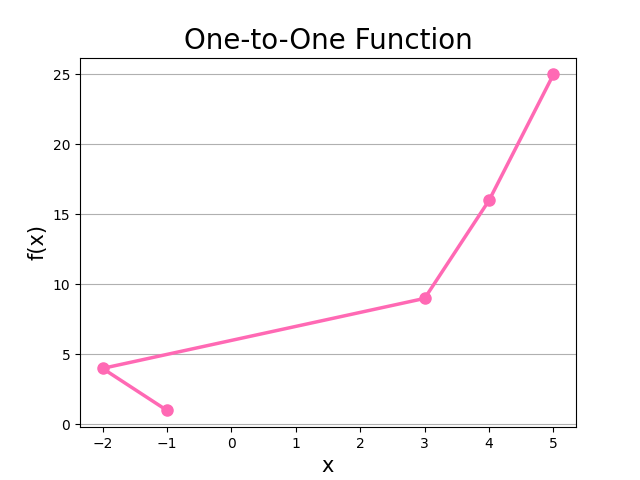
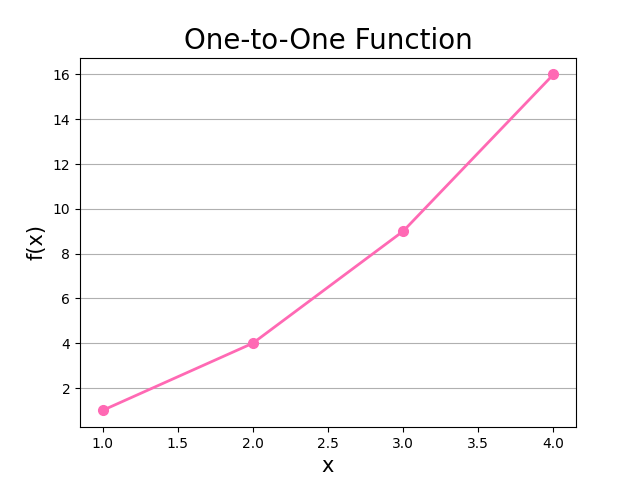
InjectivePlot function and update domain values

diff --git a/Functions Code/Injective.py b/Functions Code/Injective.py
@@ -14,7 +14,7 @@ def is_one_to_one(func, dom):
 def InjectivePlot(func, dom):
     x = np.array(dom)
     y = np.array([func(val) for val in dom])
-    plt.plot(x, y, marker = 'o', color = 'hotpink', ms = '8', linewidth = 2.5)  
+    plt.plot(x, y, marker = 'o', color = 'hotpink', ms = '7', linewidth = 2)  
     font1 = {'fontsize': 15}
     font2 = {'fontsize': 20}
     plt.xlabel('x', fontdict= font1)
@@ -26,7 +26,7 @@ def InjectivePlot(func, dom):
 def f(x):
     return x**2
 
-domain = [-1, -2, 3, 4, 5]
+domain = [1, 2, 3, 4]
 result = is_one_to_one(f, domain)
 print(f"Is the function is Injective: {result}")
 InjectivePlot(f, domain)
